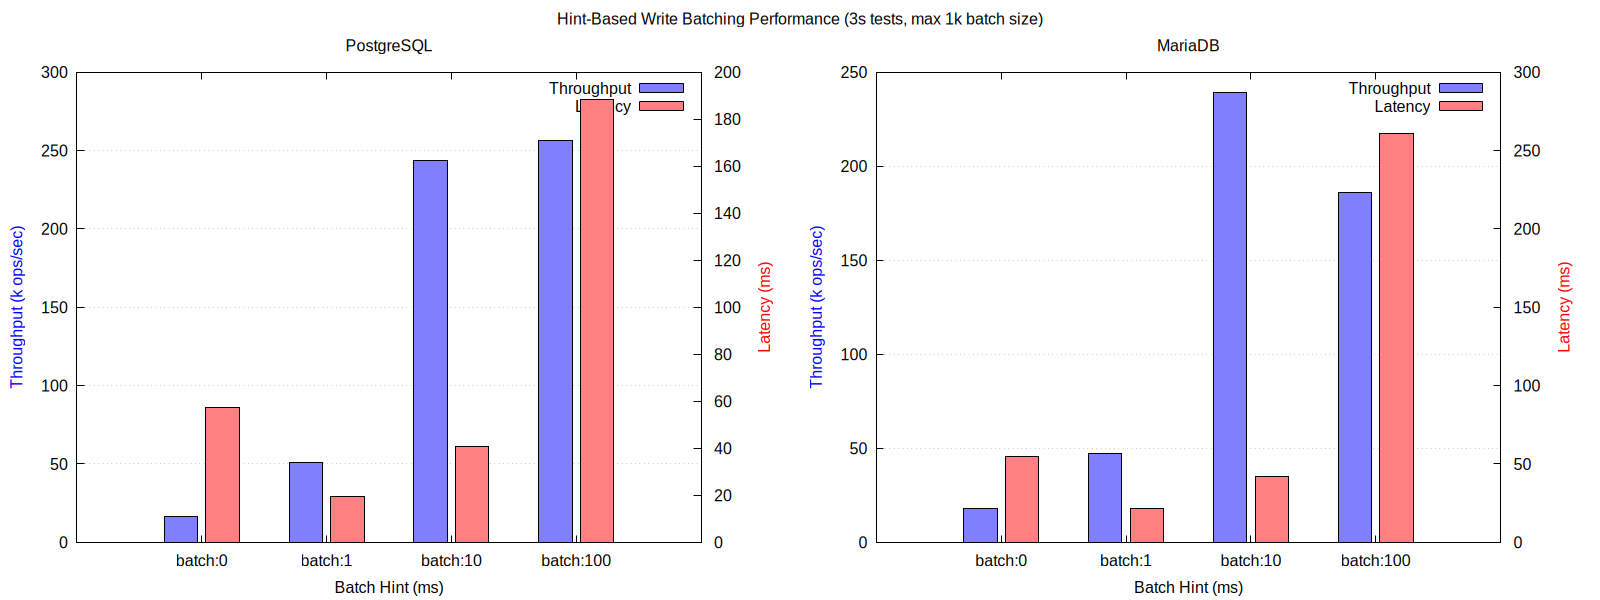
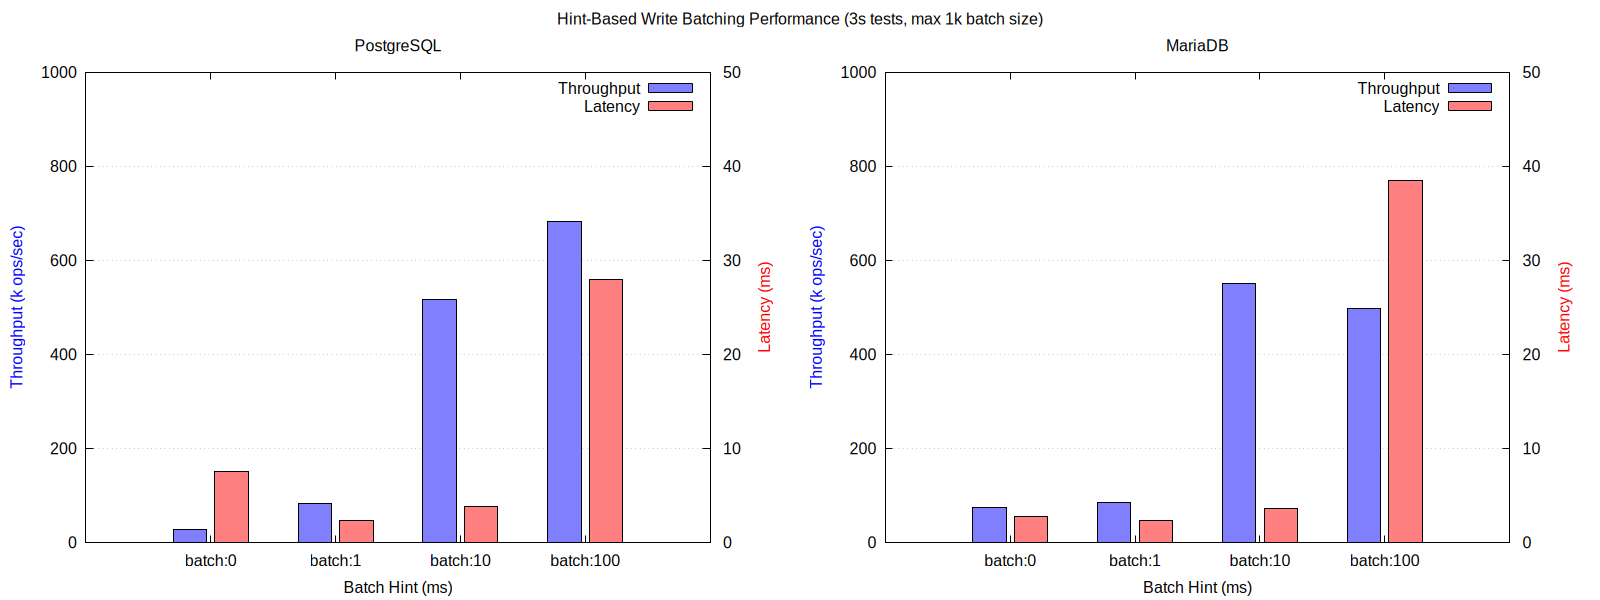
update

diff --git a/benchmarks/batching/main.go b/benchmarks/batching/main.go
@@ -69,6 +69,7 @@ func runBenchmark(targetOpsPerSec int, duration time.Duration, dbType string, ds
 
 	cfg := writebatch.Config{
 		MaxBatchSize: 1000,
+		//UseCopy:      true,
 	}
 
 	manager := writebatch.New(db, cfg)
@@ -84,11 +85,11 @@ func runBenchmark(targetOpsPerSec int, duration time.Duration, dbType string, ds
 	// Scale workers based on target rate to avoid over-saturation at low rates
 	var numWorkers int
 	if targetOpsPerSec <= 10_000 {
-		numWorkers = 1000 // Fewer workers for low rates
+		numWorkers = 200 // Fewer workers for low rates
 	} else if targetOpsPerSec <= 100_000 {
-		numWorkers = 10000
+		numWorkers = 2000
 	} else {
-		numWorkers = 50000 // Max workers for high rates
+		numWorkers = 20000 // Max workers for high rates
 	}
 
 	startTime := time.Now()
@@ -116,12 +117,18 @@ func runBenchmark(targetOpsPerSec int, duration time.Duration, dbType string, ds
 			for time.Now().Before(endTime) {
 				reqStart := time.Now()
 				params[1] = time.Now().Unix()
-				result := manager.Enqueue(bgCtx, batchKey, query, params, batchMs, nil)
-
-				if result.Error == nil {
+				// onBatchComplete callback
+				onBatchComplete := func(batchSize int) {
 					totalOps.Add(1)
 					totalLatencyNs.Add(time.Since(reqStart).Nanoseconds())
 				}
+				manager.Enqueue(bgCtx, batchKey, query, params, batchMs, onBatchComplete)
+
+				//result := manager.Enqueue(bgCtx, batchKey, query, params, batchMs, onBatchComplete)
+				// if result.Error == nil {
+				// 	totalOps.Add(1)
+				// 	totalLatencyNs.Add(time.Since(reqStart).Nanoseconds())
+				// }
 			}
 		}(i)
 	}
@@ -173,8 +180,8 @@ set title "PostgreSQL"
 set xlabel "Batch Hint (ms)"
 set ylabel "Throughput (k ops/sec)" textcolor rgb "blue"
 set y2label "Latency (ms)" textcolor rgb "red"
-set yrange [0:*]
-set y2range [0:*]
+set yrange [0:1000]
+set y2range [0:50]
 set ytics nomirror
 set y2tics
 set style data histograms
@@ -192,8 +199,8 @@ set title "MariaDB"
 set xlabel "Batch Hint (ms)"
 set ylabel "Throughput (k ops/sec)" textcolor rgb "blue"
 set y2label "Latency (ms)" textcolor rgb "red"
-set yrange [0:*]
-set y2range [0:*]
+set yrange [0:1000]
+set y2range [0:50]
 
 plot 'bars_mysql.dat' using 2:xtic(1) title 'Throughput' axes x1y1 linecolor rgb "blue", \
      'bars_mysql.dat' using 3 title 'Latency' axes x1y2 linecolor rgb "red"
